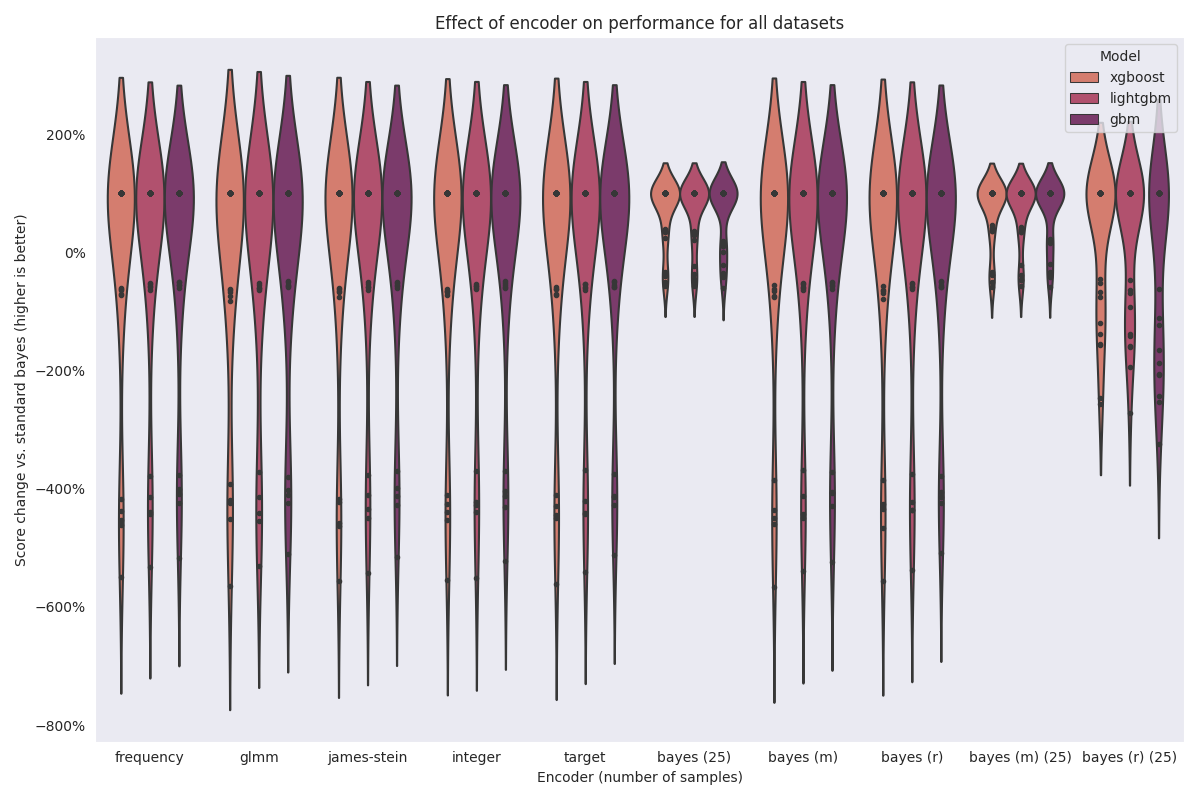
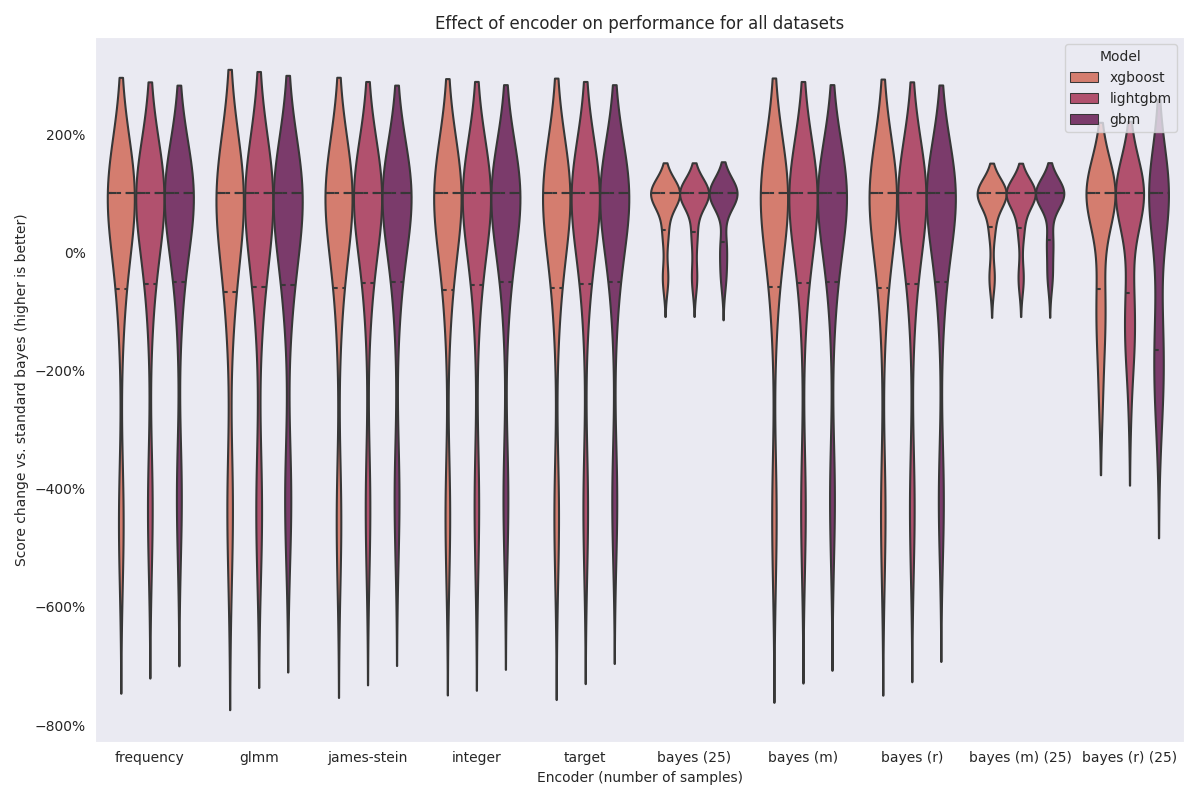
Using quartile for the plots

diff --git a/experiments/tasks/plots.py b/experiments/tasks/plots.py
@@ -53,14 +53,13 @@ def render_sample_perf_plot(data: pd.DataFrame):
             ].mean()
             data["score-change"] = (data[("metrics", "score")] - non_sample) / abs(non_sample)
             fig, ax = plt.subplots(figsize=(12, 8))
-            sns.pointplot(
+            sns.violinplot(
                 x=("parameters", "n_estimators"),
                 y="score-change",
                 hue=("parameters", "model"),
                 data=data[data[("parameters", "n_estimators")] > 0],
                 palette="flare",
-                dodge=True,
-                ci="sd",
+                inner="quartile",
                 ax=ax
             ).set(
                 title=f"Effect of number of samples on performance for {name}",
@@ -113,16 +112,13 @@ def render_comparison_perf_plot(data: pd.DataFrame):
             ] += " (" + data[("parameters", "n_estimators")].astype(str) + ")"
 
             fig, ax = plt.subplots(figsize=(12, 8))
-            #sns.pointplot(
             sns.violinplot(
                 x=("parameters", "encoder"),
                 y="score-change",
                 hue=("parameters", "model"),
                 data=data[~mask],
                 palette="flare",
-                inner="points",
-                #dodge=True,
-                #ci="sd",
+                inner="quartile",
                 ax=ax
             ).set(
                 title=f"Effect of encoder on performance for {name}",

diff --git a/docs/experiments/index.rst b/docs/experiments/index.rst
@@ -16,6 +16,32 @@ to analyze bayesian target encoding (BTE) and answer the following questions:
     What if the encoder is fitted using the residuals from the submodel as the
     target?
 
+Encoder comparison
+------------------
+
+.. figure:: ../../experiments/output/all-datasets-comparison.png
+  :align: center
+
+  ``(m)`` indicates that the encoder used the "marginal" approach. ``(r)`` indicates
+  that the encoder uses the "residual" approach.
+
+In this experiment, we wanted to compare the standard bayesian target encoding to other
+popular encoding methodologies. We also wanted to test a "staged approach", where we
+
+#. fit a submodel that uses all non-categorical columns as features,
+#. fit the encoder using either the submodel output (the "marginal" approach) or the residuals as the target, and
+#. use the encoding and raw numeric features to fit the final model.
+
+The idea here is that the categorical encoding can try to use the information not captured
+by numeric variables and produce a more useful encoding.
+
+The aggregated visualization doesn't show this well, but we have three takeaways from this
+experiment:
+
+#. Non-sampled bayesian target encoding does not outperform other encoding methods,
+#. Sample bayesian target encoding performs the best, and
+#. marginal/residual encoding provides very incremental benefit at best.
+
 Ensemble methodology\ :footcite:p:`larionov`
 --------------------------------------------
 

diff --git a/docs/experiments/regression/particulate.rst b/docs/experiments/regression/particulate.rst
@@ -17,3 +17,9 @@ Sampling experiment
 
 .. image:: ../../../experiments/output/particulate-matter-ukair-2017-sampling.png
     :align: center
+
+Encoder comparison
+------------------
+
+.. image:: ../../../experiments/outp9ut/particulate-matter-ukari-2017-comparison.png
+    :align: center

diff --git a/docs/experiments/regression/flight.rst b/docs/experiments/regression/flight.rst
@@ -17,3 +17,9 @@ Sampling experiment
 
 .. image:: ../../../experiments/output/flight-delay-usa-dec-2017-sampling.png
     :align: center
+
+Encoder comparison
+------------------
+
+.. image:: ../../../experiments/output/flight-delay-usa-dec-2017-comparison.png
+    :align: center

diff --git a/docs/experiments/classification/click.rst b/docs/experiments/classification/click.rst
@@ -7,3 +7,9 @@ Sampling experiment
 
 .. image:: ../../../experiments/output/click_prediction_small-sampling.png
     :align: center
+
+Encoder comparison
+------------------
+
+.. image:: ../../../experiments/output/click_prediction_small-comparison.png
+    :align: center

diff --git a/docs/experiments/regression/salaries.rst b/docs/experiments/regression/salaries.rst
@@ -17,3 +17,9 @@ Sampling experiment
 
 .. image:: ../../../experiments/output/employee_salaries-sampling.png
     :align: center
+
+Encoder comparison
+------------------
+
+.. image:: ../../../experiments/output/employee_salaries-comparison.png
+    :align: center

diff --git a/docs/experiments/regression/avocado.rst b/docs/experiments/regression/avocado.rst
@@ -17,3 +17,9 @@ Sampling experiment
 
 .. image:: ../../../experiments/output/avocado-sales-sampling.png
     :align: center
+
+Encoder comparison
+------------------
+
+.. image:: ../../../experiments/output/avocado-sales-comparison.png
+    :align: center

diff --git a/docs/experiments/regression/housing.rst b/docs/experiments/regression/housing.rst
@@ -17,3 +17,9 @@ Sampling experiment
 
 .. image:: ../../../experiments/output/ames-housing-sampling.png
     :align: center
+
+Encoder comparison
+------------------
+
+.. image:: ../../../experiments/output/ames-housing-comparison.png
+    :align: center

diff --git a/docs/experiments/classification/churn.rst b/docs/experiments/classification/churn.rst
@@ -7,3 +7,9 @@ Sampling experiment
 
 .. image:: ../../../experiments/output/churn-sampling.png
     :align: center
+
+Encoder comparison
+------------------
+
+.. image:: ../../../experiments/output/churn-comparison.png
+    :align: center
